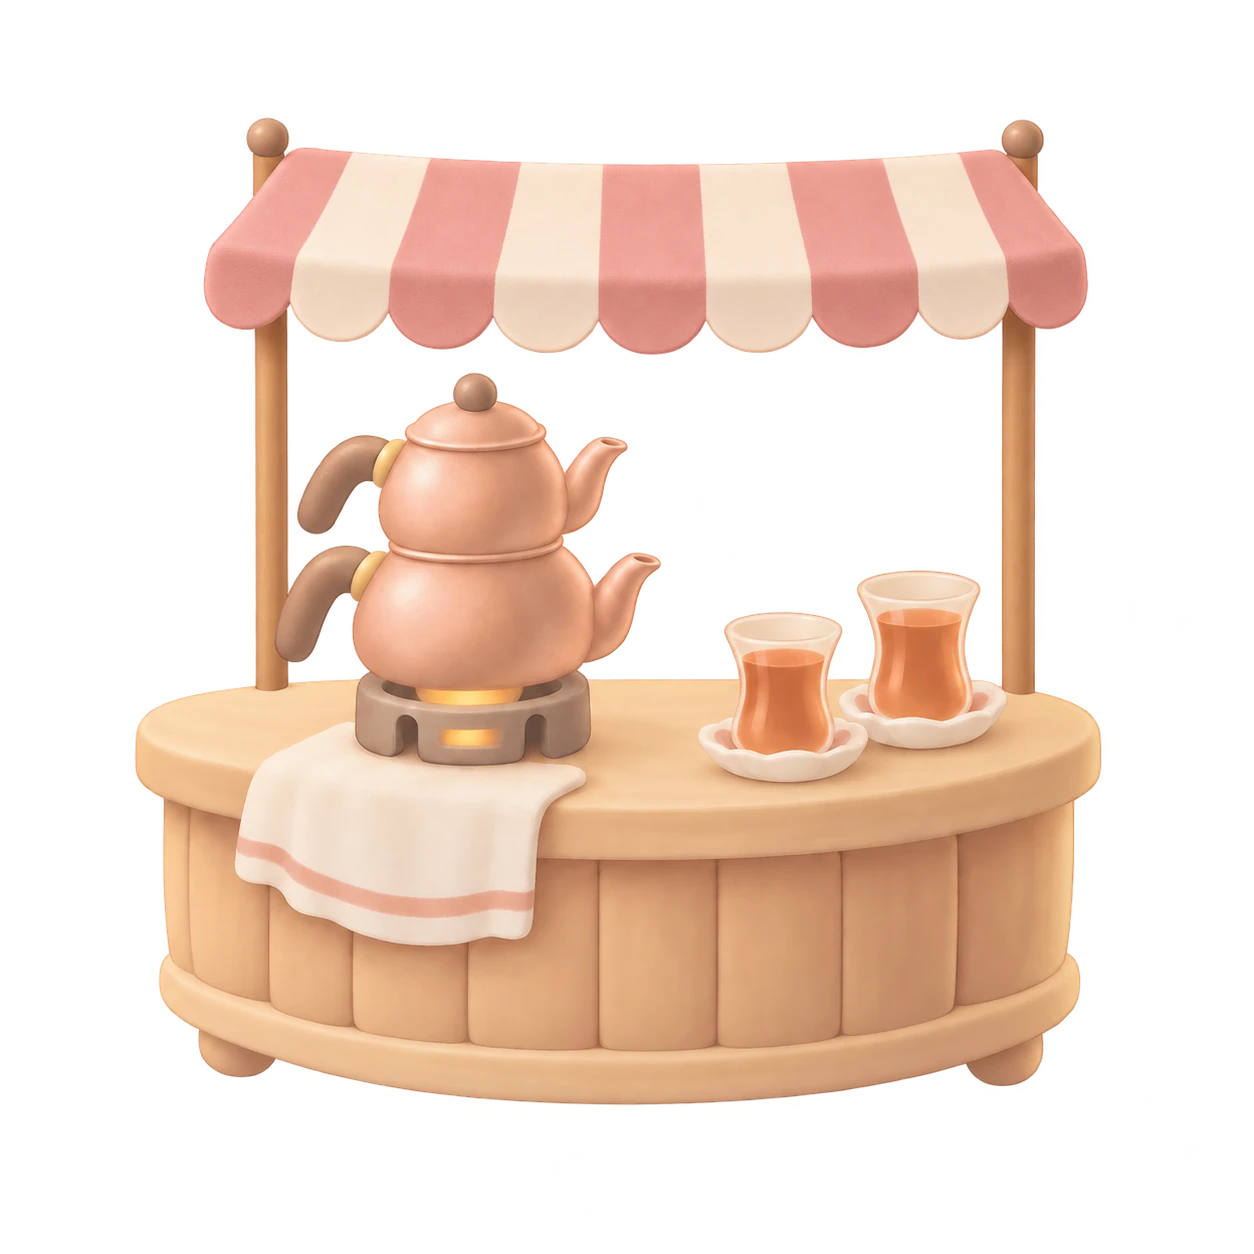
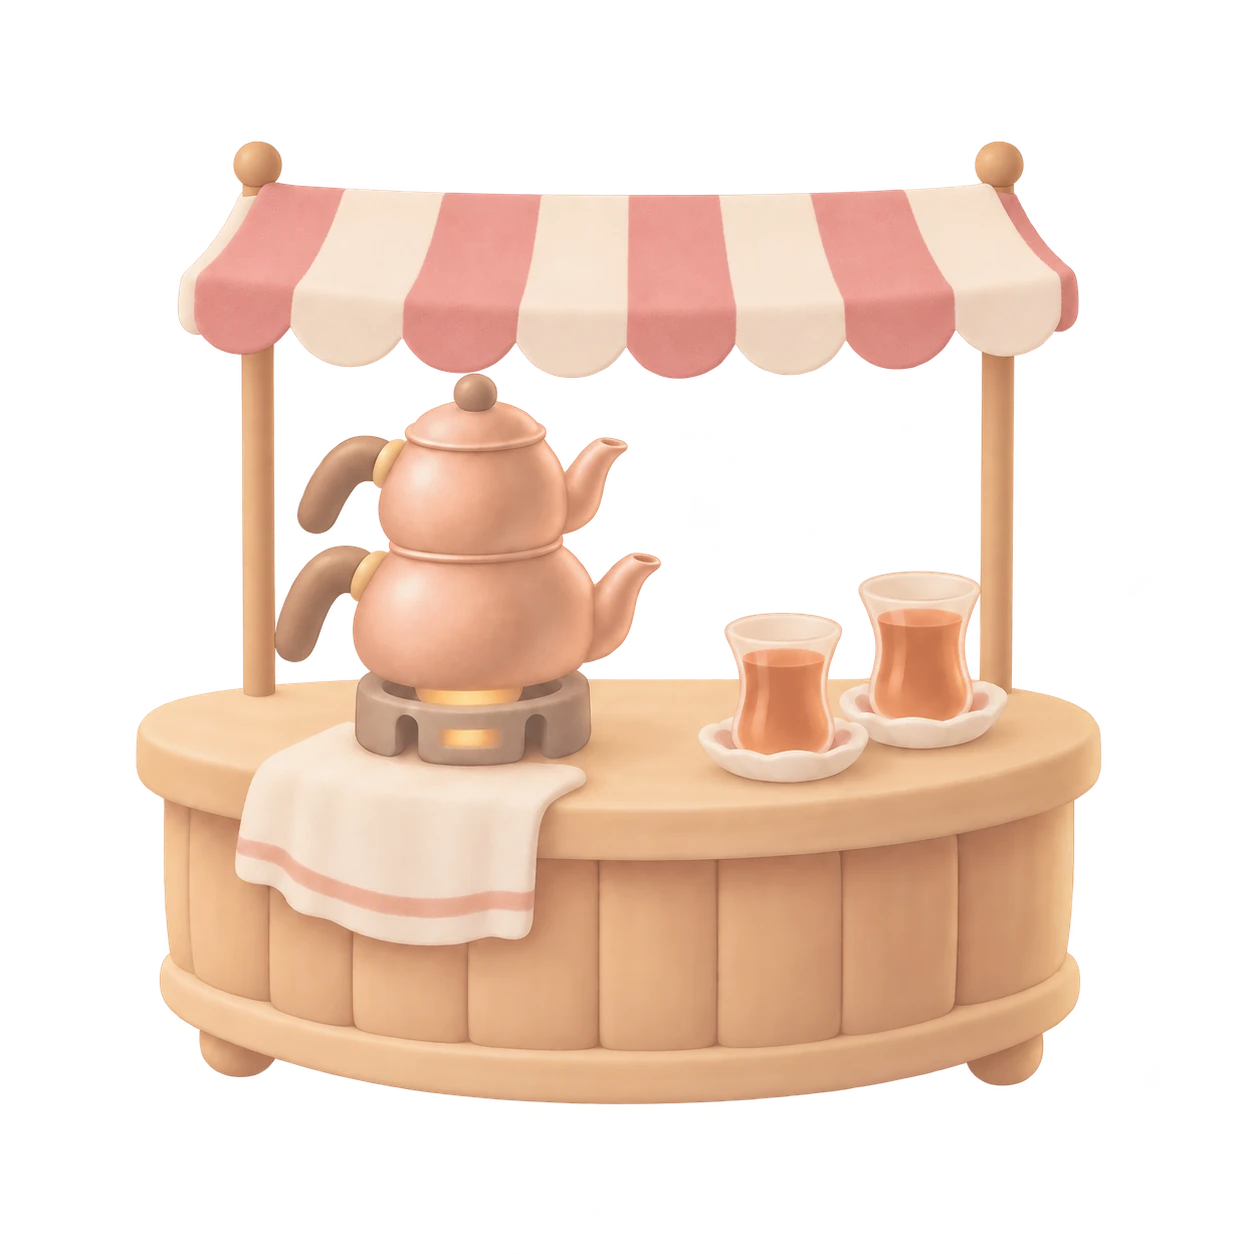
design(art): promote cay-2 with QA auto-pick
Archive two fresh q90 takes and the contact sheet. Preserve exact master pixels in a lossless WebP twin. Founder review pending.

Generated-With: OpenAI Codex

Changed region(s): [[0.1244, 0.0933, 0.8708, 0.5598]]

diff --git a/design/art/stations/cay-2/provenance.md b/design/art/stations/cay-2/provenance.md
@@ -1,0 +1,50 @@
+# station__cay-2
+
+- **Approved:** 2026-11-02T14:31:40+00:00 from batch `batch-01-slice`, job `cay-2`, take t2
+  of 2 considered.
+- **Generating account:** Founder's uncle's ChatGPT plan, used by the founder with permission
+  (chatgpt-plan).
+- **Tool:** codex-cloud;
+  generated 2026-11-02T14:31:08+00:00.
+- **Post-processing (human-authored, documented per art bible section 13):**
+  canvas fit, style lock preset `soft-lock` (style_lock.json v1).
+- **Files:** `raw.png` is the take as generated; `cay-2.png` is the locked master the app and later edits use.
+- **Review note:** auto-picked by QA; founder review pending
+
+## References
+
+- `design/art/stations/cay-1/cay-1.png`: The image to edit (the approved previous level). Edit it; do not redraw it.
+
+## Prompt (fingerprint 0e67e6ef4a848e91)
+
+```text
+REFERENCES (attached, in this order):
+1. The image to edit (the approved previous level). Edit it; do not redraw it.
+
+Add two thin wooden poles at the back corners of the counter and a
+scalloped striped awning between them, soft rose-pink and cream
+stripes, matte cloth. The awning's top stays below the top of the
+canvas with a clear margin.
+
+KEEP: everything not named above stays exactly the same as in the
+attached image: every existing part, its shape, color, position and size,
+the canvas, the camera, the light and the painting style. Do not zoom out
+or reframe: if a new part does not fit, make the new part smaller, never
+the existing ones. Outside the new parts, the result must line up with
+the attached image pixel for pixel.
+
+Output: one image, transparent background PNG, square 1024 x 1024.
+```
+
+## QA at approval
+
+- pass: transparency (source has an alpha channel)
+- pass: canvas (1254x1254 scaled x0.817 into 1024x1024)
+- pass: chroma_ceiling (chroma p95 25 (R1 51))
+- pass: value_floor (lightness p5 65 (R1 59))
+- pass: detail_budget (detail at display size 1.3 (R1 5.3))
+- pass: lock_load (the lock moved colors by mean dE 8.6)
+- pass: no_guide_magenta (0 guide-magenta pixels (per 1024^2))
+- pass: palette_drift (mean dE 0.7, p95 1.6, off-palette 0.0%)
+- warn: station_anchor (top y 115 above the height bar (150))
+- pass: edit_stability (90% of the parent level unchanged)
